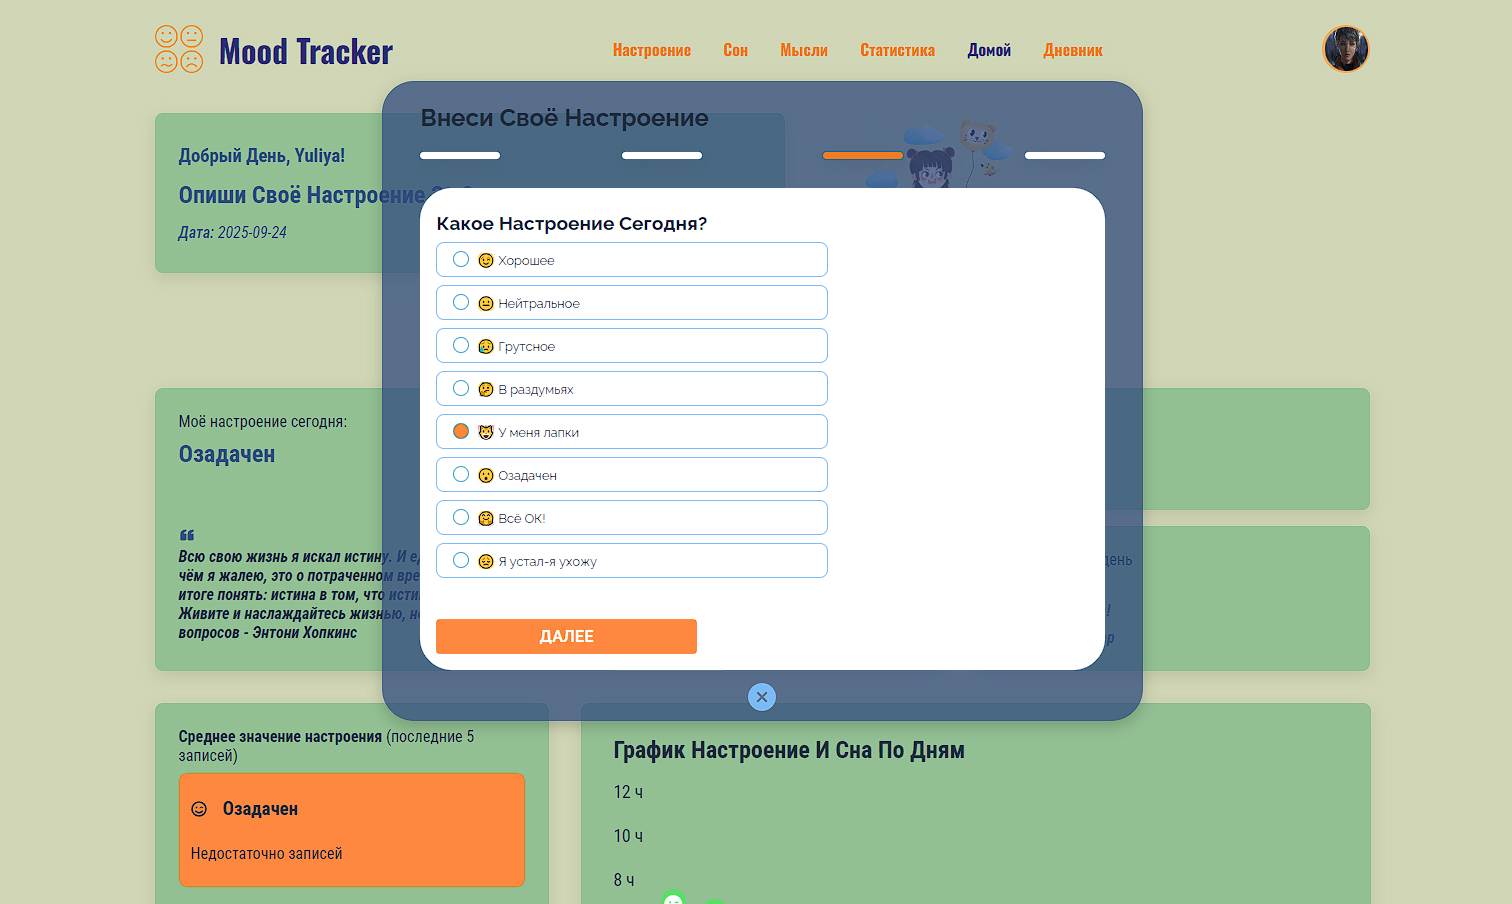
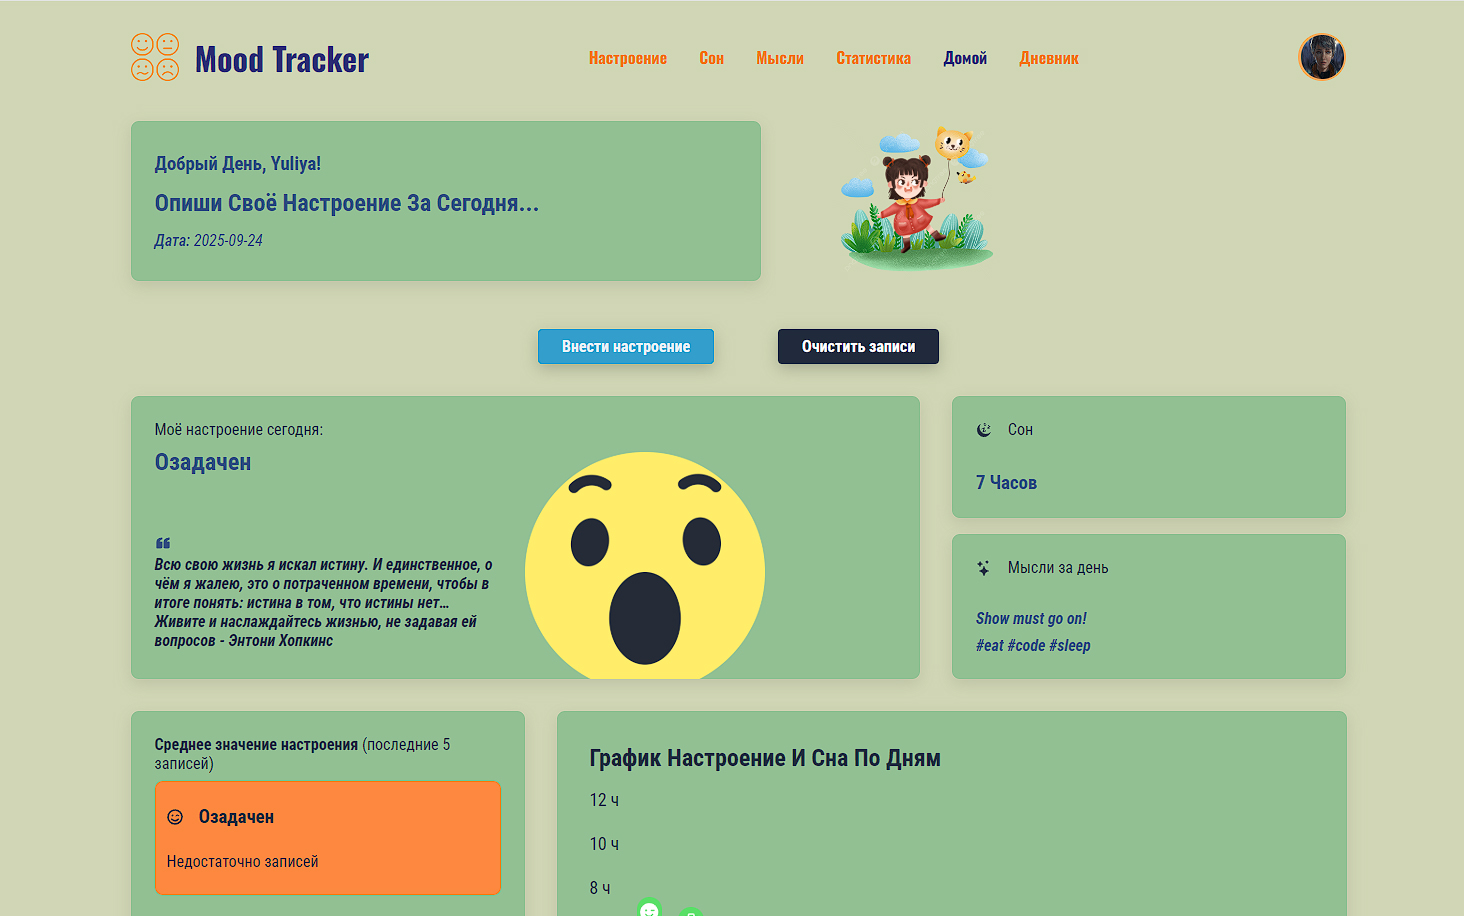
photos and tests added

diff --git a/src/Home.jsx b/src/Home.jsx
@@ -27,13 +27,13 @@ function Home() {
 
   const { formData, resetForm, setActiveTab, entries, setEntries } = useGlobalContext();
   const { isShowing, open, close } = useModal();
- const isMobile = useMediaQuery('(max-width: 780px)');
+  const isMobile = useMediaQuery('(max-width: 780px)');
   const card = isMobile
     ? { hidden: { x: -40, opacity: 0 }, visible: { x: 0, opacity: 1, transition: { duration: 0.6 } } }
     : { hidden: {}, visible: {} };
 
-    //Animation (depending on screen)
- const Anim = ({ children }) => (
+  //Animation (depending on screen)
+  const Anim = ({ children }) => (
     <motion.div variants={card} initial="hidden" whileInView="visible">
       {children}
     </motion.div>
@@ -64,7 +64,7 @@ function Home() {
     console.log(entries);
   };
 
-   //Average data
+  //Average data
   function getAverage(arr, key) {
     const freq = arr.reduce((m, o) => {
       const v = o[key];
@@ -87,7 +87,7 @@ function Home() {
   //   return arr.length > 5 ? getAverage(arr, key) : 'Not enough entries';
   // };
 
-    //In case there are two equal frequent entries
+  //In case there are two equal frequent entries
   function getModes(arr, key) {
     const freq = arr.reduce((m, o) => {
       const v = o[key];
@@ -188,7 +188,7 @@ function Home() {
   return (
 
     <div className="container">
-         <WelcomeForm />
+      <WelcomeForm />
       <div className='modal-container'>
         <button className='log_btn' onClick={open}>Внести настроение</button>
         <button className='clear' onClick={clearLog}>Очистить записи</button>
@@ -201,19 +201,19 @@ function Home() {
       {entries.length > 0 && (
         <div className='data_container'>
           <div className='container_first'>
-          <Anim>
-            <div className='mood_container id="mood'>
+              <div className='mood_container id="mood'>
 
-              <div className='current_mood'>Моё настроение сегодня:<br /> <h2 className="entry_data">{splitWords(newestEntry.mood)}</h2></div>
-              <div className='current_quote'><BiSolidQuoteLeft /> <br />{`${quote.quote} - ${quote.source}`}</div>
+                <div className='current_mood'>Моё настроение сегодня:<br /> <h2 className="entry_data">{splitWords(newestEntry.mood)}</h2></div>
+                <div className='current_quote'><BiSolidQuoteLeft /> <br />{`${quote.quote} - ${quote.source}`}</div>
 
-              <div className='img_container'>
-                <img className='mood_img' src={import.meta.env.BASE_URL + `/images/${newestEntry.mood}.png`} />
+                <div className='img_container'>
+                  <img className='mood_img' src={import.meta.env.BASE_URL + `/images/${newestEntry.mood}.png`} />
+                </div>
               </div>
-            </div>
-            </Anim>
 
+            
             <div className='thoughts_container'>
+            <Anim>
               <div className='sleep_data' id='sleep'>
                 <div>
                   <GiNightSleep />
@@ -221,21 +221,23 @@ function Home() {
                 </div>
                 <h3 className="entry_data">{entries[entries.length - 1].sleep} <span className="entry_data">{entries[entries.length - 1].sleep > 4 ? "часов" : "часа"}</span></h3>
               </div>
+              </Anim>
 
               <Anim>
-              <div className='thoughts_data' id='thoughts'>
-                <div>
-                  <BsStars />
-                  <h4>Мысли за день</h4>
+                <div className='thoughts_data' id='thoughts'>
+                  <div>
+                    <BsStars />
+                    <h4>Мысли за день</h4>
+                  </div>
+                  <p className="entry_data">{entries[entries.length - 1].notes}</p>
+                  <p className="entry_data">{getWords(entries[entries.length - 1].hashtags)}</p>
                 </div>
-                <p className="entry_data">{entries[entries.length - 1].notes}</p>
-                <p className="entry_data">{getWords(entries[entries.length - 1].hashtags)}</p>
-              </div>
               </Anim>
             </div>
           </div>
 
           <div className='container_second' id='average'>
+          <Anim>
             <div className='average_data'>
               <div className='average'>
                 <h4>Среднее значение настроения <span>(последние 5 записей)</span></h4>
@@ -258,36 +260,37 @@ function Home() {
                 </div>
               </div>
             </div>
-            
+            </Anim>
+
             <Anim>
-            <div className='charts_container'>
-              <h2>График настроение и сна по дням</h2>
-              <div className='chart'>
-                <div className='y-chart'>
-                  {Y_TICKS.map(h => (
-                    <div key={h}>{h} ч</div>
-                  ))}
-                </div>
-                  
-                <div className='x-chart'>
-                  {sortedReverseData.map(e => (
-                    <div key={e.date} className='sleep_bar'>
-                      <div className='smile_chart'>{getBarMood(e.mood)}</div>
-                      <div className='bar'
-                        title={`${e.date} – ${e.sleep}ч`}
-                        style={{
-                          height: `${barHeight(e.sleep)}em`,
-                          backgroundColor: getBarColor(e.sleep)
-                        }}
-                      />
-                      <span
-                        style={{ fontSize: 10, marginTop: 4 }}>
-                        {e.date.slice(-5)}</span>
-                    </div>
-                  ))}
+              <div className='charts_container'>
+                <h2>График настроение и сна по дням</h2>
+                <div className='chart'>
+                  <div className='y-chart'>
+                    {Y_TICKS.map(h => (
+                      <div key={h}>{h} ч</div>
+                    ))}
+                  </div>
+
+                  <div className='x-chart'>
+                    {sortedReverseData.map(e => (
+                      <div key={e.date} className='sleep_bar'>
+                        <div className='smile_chart'>{getBarMood(e.mood)}</div>
+                        <div className='bar'
+                          title={`${e.date} – ${e.sleep}ч`}
+                          style={{
+                            height: `${barHeight(e.sleep)}em`,
+                            backgroundColor: getBarColor(e.sleep)
+                          }}
+                        />
+                        <span
+                          style={{ fontSize: 10, marginTop: 4 }}>
+                          {e.date.slice(-5)}</span>
+                      </div>
+                    ))}
+                  </div>
                 </div>
               </div>
-            </div>
             </Anim>
           </div>
         </div>

diff --git a/src/UserForm.jsx b/src/UserForm.jsx
@@ -52,11 +52,11 @@ const UserForm = ({ isClosed, onSave }) => {
               required: true,
               pattern: {
                 value: /^[A-Za-zА-Яа-яЁё\s]+$/,
-                message: "Only letters are valid"
+                message: "Только буквы"
               },
               minLength: {
                 value: 2,
-                message: "This input is less than minLength",
+                message: "Должно быть минимум два знака",
               },
             })}
               placeholder='Введите имя'
@@ -73,10 +73,10 @@ const UserForm = ({ isClosed, onSave }) => {
             />
             <input className='form_input'
               {...register("lastName", {
-                required: 'Enter your last name',
+                required: 'Введите фамилию',
                 minLength: {
                   value: 2,
-                  message: "This input is less than minLength",
+                  message: "Должно быть минимум два знака",
                 }
               },
               )}
@@ -93,7 +93,7 @@ const UserForm = ({ isClosed, onSave }) => {
 
             <button type='submit' className='form_btn' onClick={submit} disabled={Object.keys(errors).length > 0}>OK</button>
           </form>
-          <AiFillCloseCircle className='close_btn' onClick={isClosed} />
+          <AiFillCloseCircle type='button' className='close_btn' onClick={isClosed} />
         </motion.div>
       )}
     </AnimatePresence>

diff --git a/src/tests/Button.test.jsx b/src/tests/Button.test.jsx
@@ -1,0 +1,47 @@
+import { render, screen } from '@testing-library/react';
+import userEvent from '@testing-library/user-event';
+import { AppContext } from '../context'; 
+import { vi } from 'vitest'; 
+import UserForm from '../UserForm';
+
+const MockProvider = ({ children }) => (
+   <AppContext.Provider value={{ isOpened: true }}> 
+    {children}
+  </AppContext.Provider>
+);
+
+describe('UserForm', () => {
+ const mockOnSave = vi.fn();
+const mockOnClose = vi.fn();
+
+  beforeEach(() => {
+    vi.clearAllMocks();
+  });
+
+//1
+  test('отображаются поля firstName, lastName и кнопка OK', () => {
+    render(
+      <MockProvider>
+        <UserForm isClosed={mockOnClose} onSave={mockOnSave} />
+      </MockProvider>
+    );
+
+    expect(screen.getByPlaceholderText(/введите имя/i)).toBeInTheDocument();
+    expect(screen.getByPlaceholderText(/введите фамилию/i)).toBeInTheDocument();
+    expect(screen.getByRole('button', { name: /ok/i })).toBeInTheDocument();
+  });
+
+  //2
+ test('показывает ошибку, если в firstName введены цифры', async () => {
+    render(
+      <MockProvider>
+        <UserForm isClosed={mockOnClose} onSave={mockOnSave} />
+      </MockProvider>
+    );
+
+    const firstName = screen.getByPlaceholderText(/введите имя/i);
+    await userEvent.type(firstName, '123');
+
+    expect(await screen.findByText(/только буквы/i)).toBeInTheDocument();
+  });
+});

diff --git a/src/tests/AddBtn.test.jsx b/src/tests/AddBtn.test.jsx
@@ -1,0 +1,24 @@
+import { render, screen } from '@testing-library/react';
+import userEvent from '@testing-library/user-event';
+import { vi } from 'vitest';
+import { AppProvider } from '../context'; 
+import Tabs from '../Tabs.jsx';
+
+test('на последней вкладке кнопка становится "Завершить" и type="submit"', async () => {
+  const handleSave = vi.fn();
+  render(
+    <AppProvider>
+      <Tabs tabsCount={3} onEntrySubmit={handleSave} />
+    </AppProvider>
+  );
+
+  await userEvent.click(screen.getByRole('button', { name: /далее/i }));
+  await userEvent.click(screen.getByRole('button', { name: /далее/i }));
+  await userEvent.click(screen.getByRole('button', { name: /далее/i }));
+
+  const finishBtn = screen.getByRole('button', { name: /завершить/i });
+  expect(finishBtn).toBeInTheDocument();
+  expect(finishBtn).toHaveAttribute('type', 'submit');
+
+  await userEvent.click(finishBtn);
+});

diff --git a/src/tests/setupTests.js b/src/tests/setupTests.js
@@ -12,6 +12,7 @@
 import { expect, afterEach, test } from 'vitest';
 import { cleanup } from '@testing-library/react';
 import * as matchers from "@testing-library/jest-dom/matchers";
+import '@testing-library/jest-dom';
 
 expect.extend(matchers);
 afterEach(() => {

diff --git a/vite.config.js b/vite.config.js
@@ -8,7 +8,7 @@ export default defineConfig({
     test: {
     environment: 'jsdom',
     setupFiles: './src/tests/setupTests.js',
-    // testMatch: ['./tests/**/*.test.jsx'],
+    testMatch: ['scr/**/*.test.jsx'],
     globals: true
    }
 });

diff --git a/README.md b/README.md
@@ -17,7 +17,7 @@
 
 ### Links
 
-- Live Site URL: [link](https://juliasemakhina/sleep-tracker)
+- Live Site URL: [link](https://juliasemakhina.github.io/sleep-tracker/)
 
 
 ### Built with
@@ -28,7 +28,8 @@
 - CSS Grid
 - [React](https://reactjs.org/) - JS library
 - [hamburger-react](https://hamburger-react.netlify.app) - For animated Hamburger Menu
-- [React Hook Form](https://react-hook-form.com/) - for User's registration
+- [React Hook Form](https://react-hook-form.com/) - For User's registration
+- [framer-motion](https://motion.dev/docs/react) - For animation
 
 ### What I learned
 
@@ -40,7 +41,7 @@
 
 ```
 ```
-```css
+```css (radio-buttons)
 .mood-radio input[type="radio"] {
   position: absolute;
   opacity: 0;
@@ -60,7 +61,7 @@
   background-color: var(--primary-orange);
 }
 ```
-```js
+```js (react-hook-form)
         {errors.lastName?.type === "required" && (
           <small className='error_msg'>Last name is required</small>
         )};
@@ -129,8 +130,10 @@ or
 ### Will be working on the following improvements
 
 - More complex authentication form (with e-mail, passwords and back-end);
-- Buttons on cahrt to sort out weeks/months of entered data 
+- Filters to sort out weeks/months of entered data 
 - Add English with "i18n"
+- Add citations depending on selected mood
+- Show most popular hashtags
 
 ## Author
 
